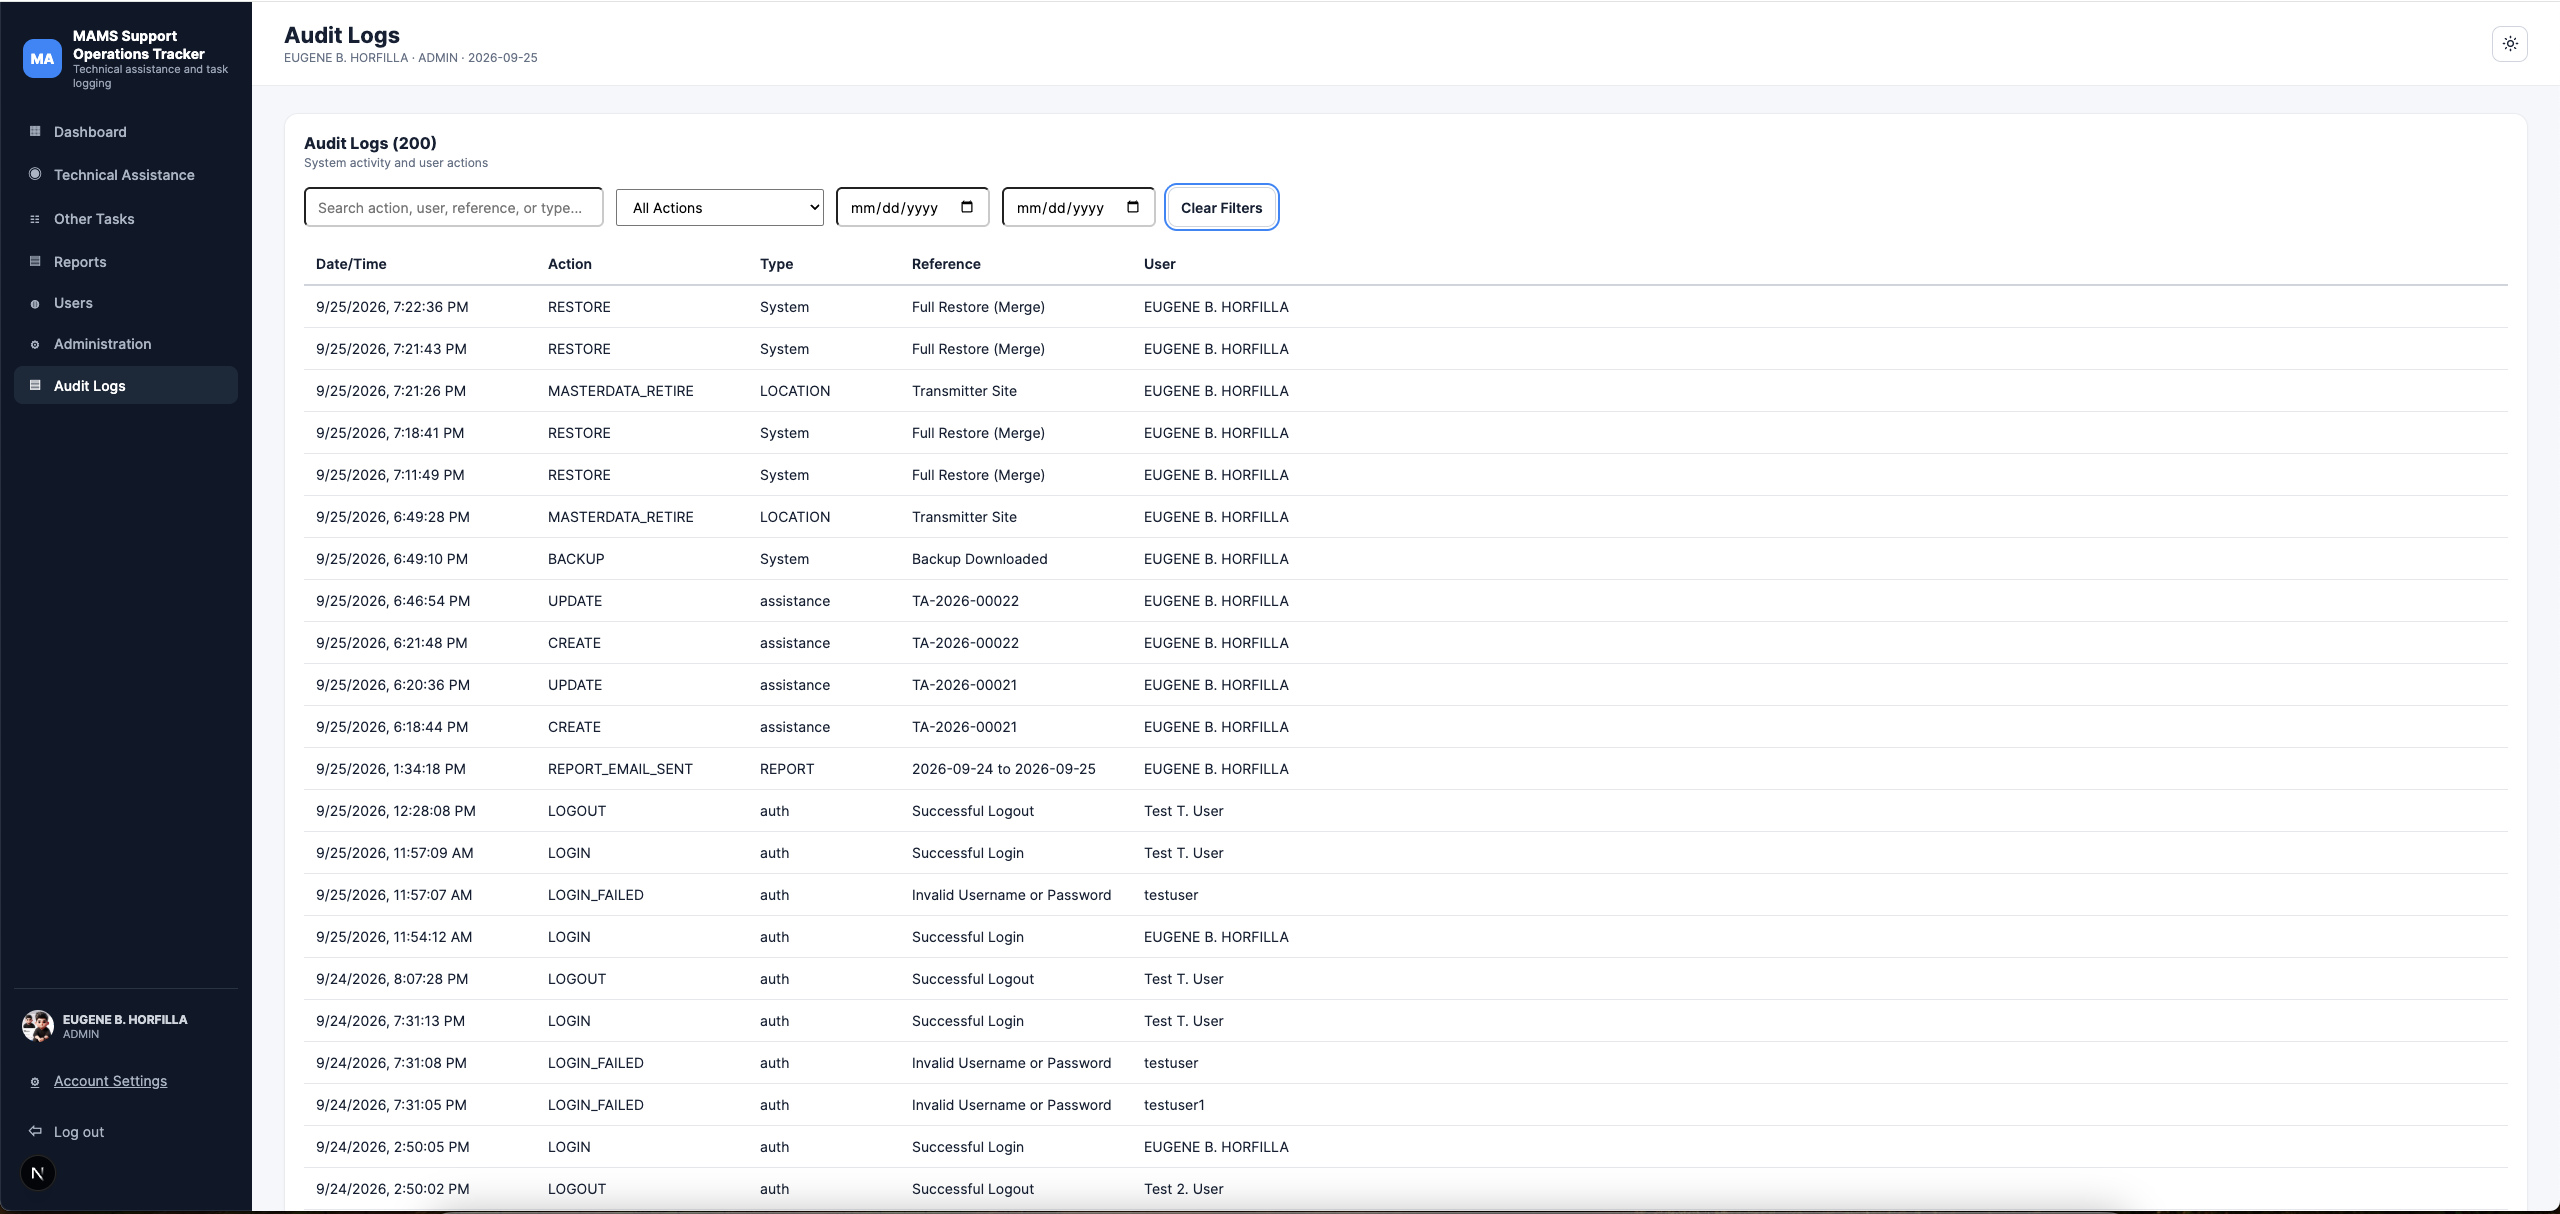
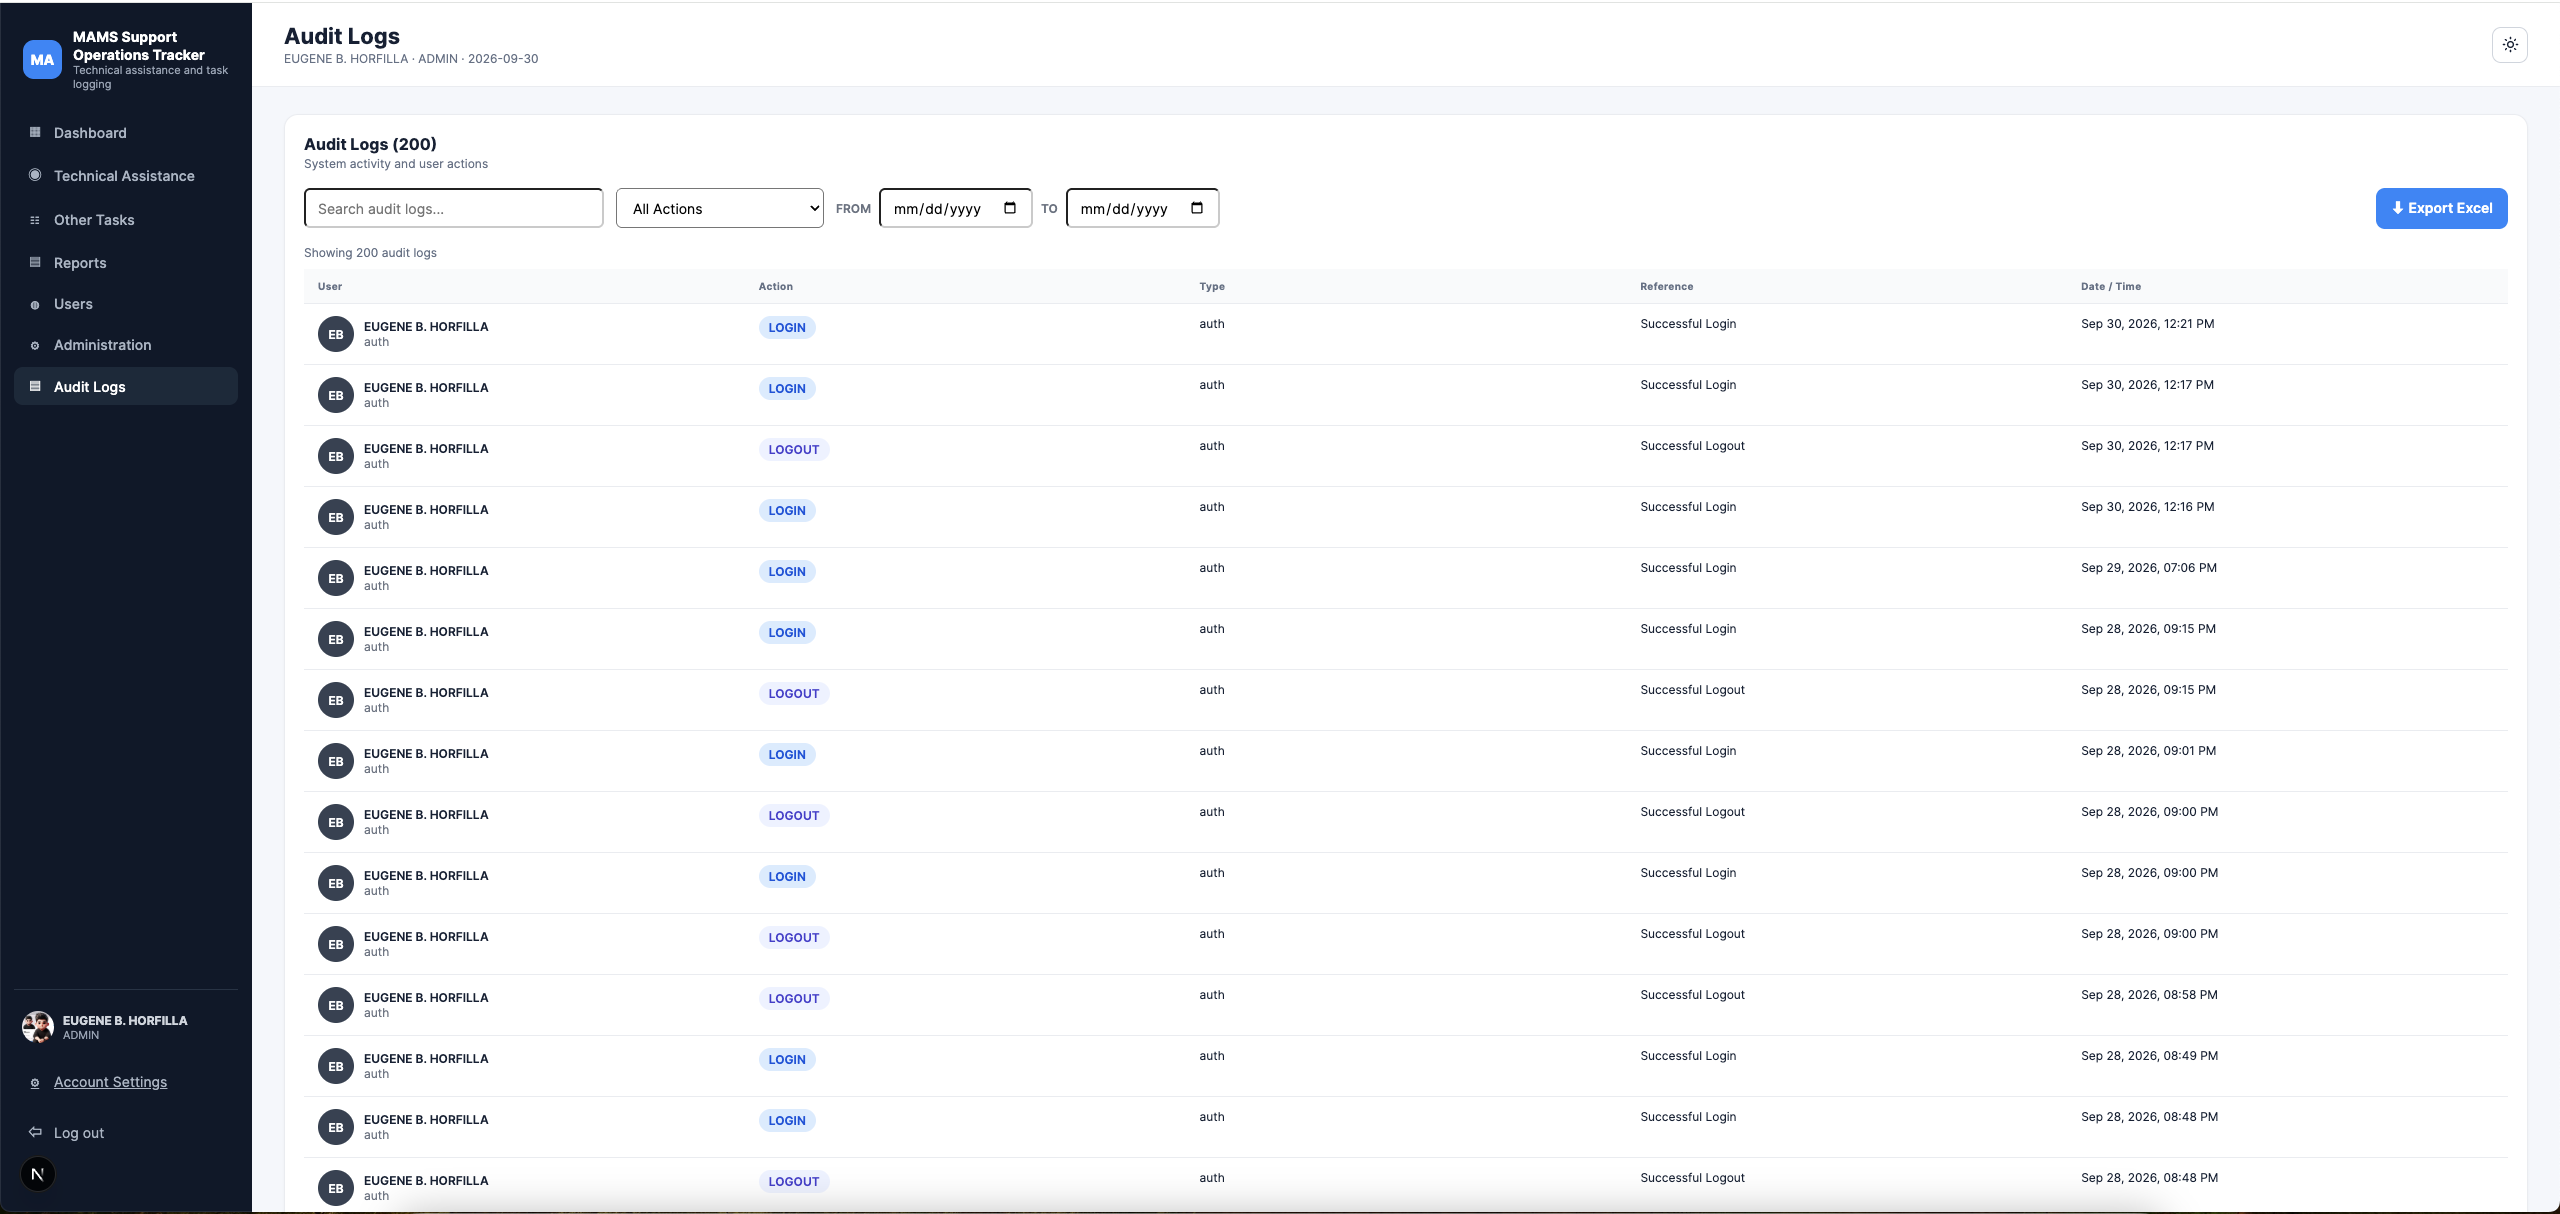
feat: improve audit logs UI and documentation

diff --git a/README.md b/README.md
@@ -55,6 +55,10 @@ The system provides ITIL-inspired incident logging, operational task tracking, a
 - System audit records
 - Record modification history
 - Backup and restore audit tracking
+- Advanced audit log filtering
+- User-based audit monitoring
+- Excel export of audit logs
+- Date range and action-based audit reporting
 
 ### Master Data Administration
 
@@ -87,6 +91,8 @@ Features include:
 - Operational summaries
 - Technical Assistance reporting
 - Task reporting
+- Audit Log reporting
+- Excel export functionality
 - Detailed export-ready reports
 
 ---
@@ -133,7 +139,8 @@ Centralized administration panel for managing master data, branding, backups, re
 
 ![Audit Logs](docs/screenshots/audit-logs.png)
 
-Comprehensive audit trail capturing user actions, record updates, administrative changes, backups, and restores.
+Comprehensive audit trail capturing user actions, record updates, administrative changes, backup and restore activities, advanced filtering, and Excel export capabilities.
+
 
 ### Account Settings
 
@@ -302,6 +309,8 @@ Features:
 - Record ownership controls
 - Administrative record locking
 - Audit logging of sensitive actions
+- User activity monitoring and traceability
+- Exportable audit records for compliance and review
 
 ---
 
@@ -330,6 +339,16 @@ prisma/
 
 ---
 
+## Recent Enhancements
+
+- Redesigned Audit Logs interface to align with the Users Management module
+- Added user avatar initials and color-coded activity badges
+- Implemented dynamic filter management with active filter count display
+- Added filtered Audit Log Excel export using ExcelJS
+- Improved audit search, filtering, and reporting experience
+- Removed unused AI configuration components and legacy settings
+
+
 ## Current Status
 
 **Version Status:** Complete ✅
@@ -341,6 +360,7 @@ Completed Development Areas:
 - Other Tasks Module
 - Dashboard and Reporting
 - Audit Logging
+- Audit Log Excel Export
 - Master Data Management
 - Backup and Restore
 - Import and Migration
